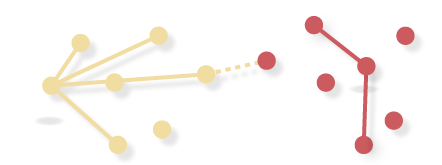
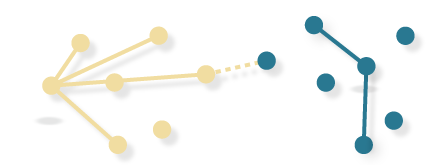
New images colors

diff --git a/app/detective/static/detective/css/home.less b/app/detective/static/detective/css/home.less
@@ -8,6 +8,25 @@
         margin-top:-1px * @header-height;
         overflow:hidden;
 
+        .go-down {
+            position:absolute;
+            bottom:20px;
+            left:50%;
+            width:100px;
+            margin-left:-50px;
+            text-align:center;
+            color:white;
+            text-decoration:none;
+            font-weight:bold;
+            .text {
+                font-family: @headings-font-family;
+            }
+            .fa {
+                margin-top:20px;
+                animation: bounce 0.7s ease infinite;
+            }
+        }
+
         &:after {
             content:"";
             width:100%;
@@ -70,33 +89,48 @@
 
     .features {
 
-        .illustration {
-            margin:10px 0;
-            padding:0 10px;
-            max-width: 100%;
-        }
 
         .card {
-            border:@gray-lighter 1px solid;
-            height:350px;
-            margin:40px 0;
+
+            padding-top:40px;
+            background: @brand-secondary;
             position:relative;
+            overflow:hidden;
+
+            &:after {
+                z-index:1;
+                position:absolute;
+                width:300px;
+                height:300px;
+                content:"";
+                background:fade(white, 5);
+                position:absolute;
+                left:50%;
+                margin-left:300px/-2px;
+                top:60px;
+                .rotate(45deg);
+            }
+
+            .illustration {
+                display:block;
+                margin:auto;
+                margin-bottom:40px;
+                width:200px;
+                height:75px;
+                position:relative;
+                z-index:2;
+            }
 
             .text {
                 padding:10px;
-                position:absolute;
-                bottom:0;
-                left:0;
-                right:0;
-                background:@gray-lighter;
+                background:white;
+                display:block;
+                position:relative;
+                z-index:3;
             }
         }
     }
 
-    .get-a-quote {
-        text-transform:uppercase;
-        font-weight:bold;
-    }
 
     .featured-investigations {
         padding:40px 0;

diff --git a/app/detective/templates/partials/home.dj.html b/app/detective/templates/partials/home.dj.html
@@ -10,6 +10,10 @@
                 </h1>
                 <h3 class="top0">Structure your investigation<br />&amp; mine your data</h3>
             </div>
+            <a class="go-down">
+                <span class="text">Discover how</span><br />
+                <i class="fa fa-arrow-down"></i>
+            </a>
         </div>
     </div>
 
@@ -71,6 +75,7 @@
             <div class="bottom50 text-center top20">
                 <a class="btn btn-primary btn-lg get-a-quote" ng-href="/contact-us">
                     Get a quote
+                    <i class="left10 fa fa-arrow-right"></i>
                 </a>
             </div>
         </div>

diff --git a/app/detective/static/detective/css/animations.less b/app/detective/static/detective/css/animations.less
@@ -47,3 +47,13 @@
         .opacity(100);
     }
 }
+
+.mixi-bounces() {
+    from { .translate(0, 0); }
+    50%  { .translate(0, -10px); }
+    to   { .translate(0, 0); }
+}
+
+@keyframes bounce{ .mixi-bounces(); }
+@-webkit-keyframes bounce{ .mixi-bounces(); }
+@-moz-keyframes bounce{ .mixi-bounces(); }
